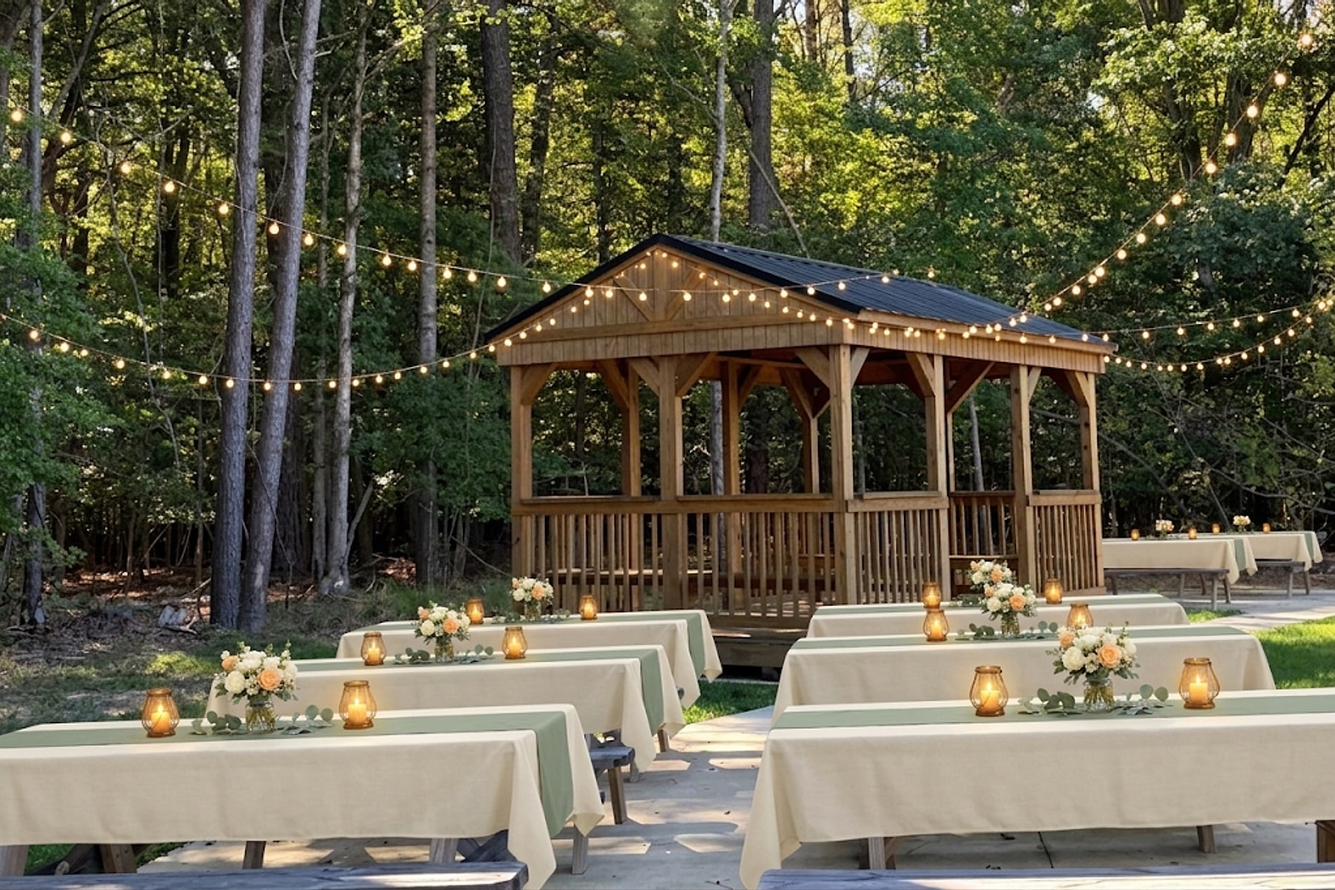
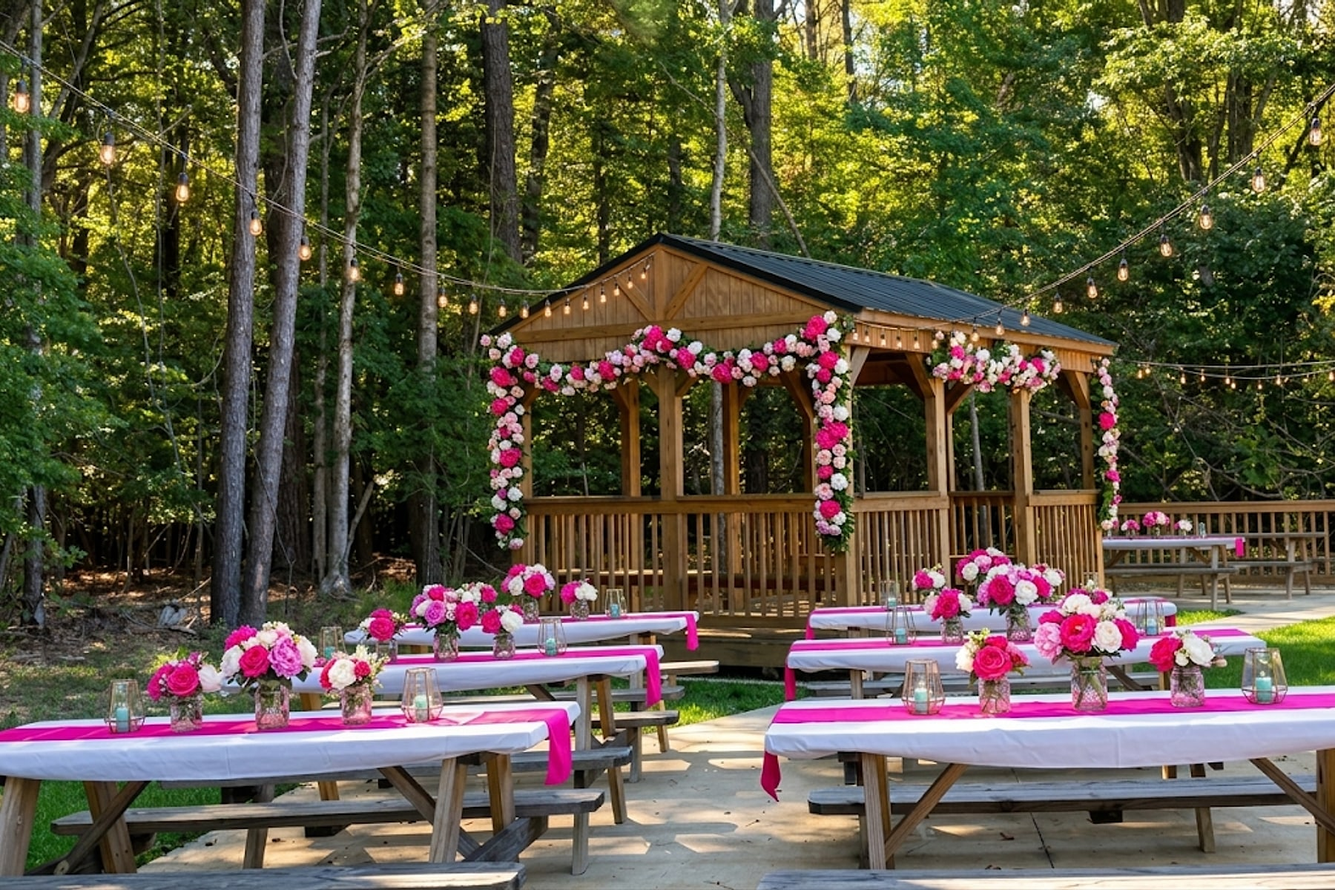
Vibrant pink and white staged photos for every event, the Main Hall ceremony with the TV removed, a styled driveway arrival; tap any photo to see it whole in a full-screen viewer; photos keep their natural shape instead of tall crops

diff --git a/src/data/photos.ts b/src/data/photos.ts
@@ -151,56 +151,62 @@ export const photoDetails: Record<string, PhotoDetail> = {
   // until all eight are in src/assets/venue/, none is shown (eventsStaged). styledOf is also the real photo
   // each event page hero shows meanwhile.
   'styled-event-weddings.jpg': {
-    alt: 'Styled concept: ceremony seating on the lawn facing the timber gazebo in The Grove, with an ivory aisle runner and ivory, peach, and eucalyptus florals',
+    alt: 'Styled concept: white chairs on the lawn facing the timber gazebo in The Grove, with a white aisle runner edged in pink and white rose petals and pink and white rose garlands and white drapes on the gazebo',
     styledOf: 'gazebo.jpg',
     event: 'weddings',
     space: 'grove',
   },
   'styled-event-receptions-banquets.jpg': {
-    alt: 'Styled concept: The Hall set for a banquet, with round tables in ivory linens, natural wood chairs, low ivory and peach centerpieces, and a head table under the arched windows',
+    alt: 'Styled concept: The Hall set for a reception, with round tables in white linens, clear chairs, tall pink and white rose centerpieces, and a white aisle lined with pink roses leading to a sweetheart table under the arched windows',
     styledOf: 'hall-windows.jpg',
     event: 'receptions-banquets',
     space: 'hall',
   },
   'styled-event-baby-bridal-showers.jpg': {
-    alt: 'Styled concept: The Hall set for a shower, with brunch tables and a dessert table by the fireplace wall',
+    alt: 'Styled concept: The Hall set for a shower, with round tables in white linens, tall pink and white floral centerpieces, and a dessert table with a pink tiered cake under a floral garland on the fireplace mantel',
     styledOf: 'hall-fireplace.jpg',
     event: 'baby-bridal-showers',
     space: 'hall',
   },
   'styled-event-birthday-parties.jpg': {
-    alt: 'Styled concept: The Hall set for a milestone dinner, with a long table lit with candles by the fireplace wall',
+    alt: 'Styled concept: The Hall set for a milestone dinner, with a long table in white linen, a runner of pink and white roses and peonies, taper candles, and a pink tiered cake by the fireplace wall',
     styledOf: 'hall-windows.jpg',
     event: 'birthday-parties',
     space: 'hall',
   },
   'styled-event-repasts-memorials.jpg': {
-    alt: 'Styled concept: The Hall set for a repast, with quiet round tables and a guest book table by the arched windows',
+    alt: 'Styled concept: The Hall set for a repast, with round tables in white linens, soft pink and white rose centerpieces with candles, and a guest book table by the double doors',
     styledOf: 'hall-doors.jpg',
     event: 'repasts-memorials',
     space: 'hall',
   },
   'styled-event-meetings-trainings.jpg': {
-    alt: 'Styled concept: The Hall set for a training, with classroom seating facing the wall-mounted screen',
+    alt: 'Styled concept: The Hall set for a workshop, with rows of tables in white linens in the middle of the room facing the wall-mounted screen, and pink and white rose centerpieces',
     styledOf: 'hall-doors.jpg',
     event: 'meetings-trainings',
     space: 'hall',
   },
   'styled-event-graduations-reunions.jpg': {
-    alt: 'Styled concept: the picnic tables in The Grove dressed in cream linens, with lanterns and string lights above the patio',
+    alt: 'Styled concept: the picnic tables in The Grove dressed in white with bright pink runners, lanterns, and jars of pink and white roses, with rose garlands on the gazebo and string lights above',
     styledOf: 'grove-tables.jpg',
     event: 'graduations-reunions',
     space: 'grove',
   },
   'styled-event-community-events.jpg': {
-    alt: 'Styled concept: round tables and a welcome table on the lawn near the path to the gazebo in The Grove',
+    alt: 'Styled concept: a community gathering in The Grove, with picnic tables in white and pink, rows of white chairs on the lawn, a welcome table with pink and white roses, and rose garlands on the gazebo',
     styledOf: 'grove-path.jpg',
     event: 'community-events',
   },
   // An indoor ceremony option for the weddings page, requested by the owner (white and pink flowers, a white
   // runner): The Main Hall, staged.
+  // Arrival styled for a wedding day, shown on the weddings page.
+  'styled-driveway-petals.jpg': {
+    alt: 'Styled concept: the drive to the venue lined on both edges with bright pink and white rose petals and clusters of roses, leading to the building among tall pines',
+    styledOf: 'driveway.jpg',
+    space: 'grounds',
+  },
   'styled-wedding-indoor-ceremony.jpg': {
-    alt: 'Styled concept: a wedding ceremony in The Main Hall, with a white aisle runner between the rows of red chairs, pink roses on the row ends, and a white and pink floral wall and arch on the stage',
+    alt: 'Styled concept: a wedding ceremony in The Main Hall, with a white aisle runner between the rows of red chairs, pink and white roses on every row end, and a pink and white floral backdrop and arch on the stage',
     styledOf: 'main-hall.jpg',
     space: 'main',
   },
